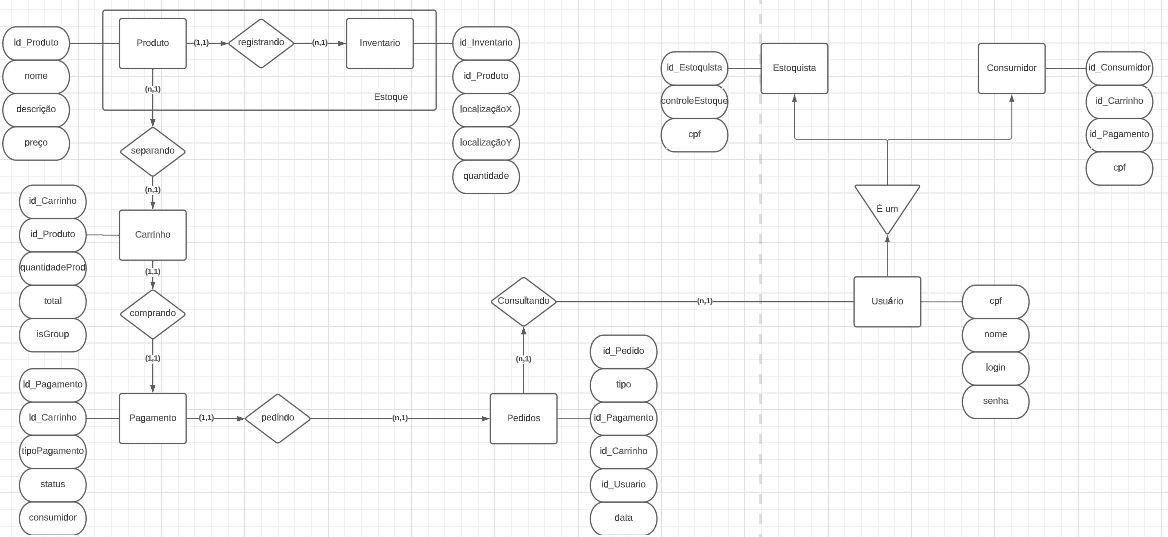
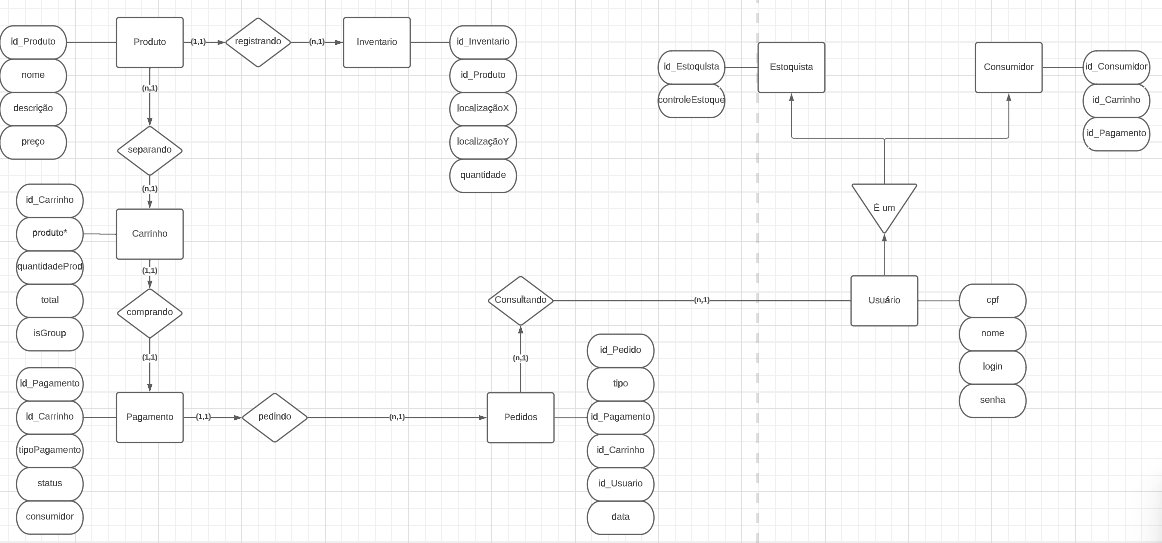
Correcoes no diagram de entidade e diagrama de modelagem

diff --git a/docs/documento_arquitetura.md b/docs/documento_arquitetura.md
@@ -408,31 +408,28 @@ Um Diagrama de Entidade-Relacionamento (DER) é uma representação gráfica que
 
 # v1.0
 
-![Diagrama de entidade relacional v1.0](assent/documento_arquitetura/../../assets/documento_arquitetura/diagrama_entidade_relacinalV2.png)
+![Diagrama de entidade relacional v1.0](assets/documento_arquitetura/diagrama_entidade_relacionalV2.png)
 
 O diagrama indica a estrutura do banco que será utilizado no projeto, sendo dividido em 3 tabelas (Produto,Inventario,Transações) onde cada uma contem as colunas nescessarias para o controle do estoque e compra de cada produto.
 
 ## Entidades
 
-Produto: representa os produtos oferecidos e contém os atributos id (identificador único do produto), nome, categoria, valor, descrição.
+Produto: representa os produtos oferecidos e contém os atributos id_Produto (identificador único do produto), nome, preço, descrição.
 
-Inventario: representa as informações de cada produto e contém os atributos de id (identificador único do produto dentro do inventario), x-
-LocalizaçãoX (posição no eixo x do produto), LocalizaçãoY (posição no eixo y do produto),quantidade.
+Inventario: representa as informações de cada produto e contém os atributos de id_Inventario (identificador único do produto dentro do inventario),id_Produto (identificador único do produto), LocalizaçãoX (posição no eixo x do produto), LocalizaçãoY (posição no eixo y do produto),quantidade.
 
-Carrinho: representa os produtos que o usuário separa para compra e contém os atributos produto, quantdade, total (valor total da compra).
+Carrinho: representa os produtos que o usuário separa para compra e contém os atributos id_Carrinho (identificado único do carrinho), produto* (produtos do carrinho), quantidadeProd (quantidade de produtos no carriho), total (total do valor da compra), isGroup (identificaodr de compras em grupo). 
 
-CarrinhoGrupo: representa uma lista de compras feitas por varias pessoas e contém o atibuto usuarioGrupo (são as informações de compra dos usuário).
+Pagamento: representa as transações feitas pelo usuário contém os atributos id_Pagamento (identificador único do pagamento),id_Carrinho,
+tipoPagamento (forma como os produtos foram pagos), status, consumidor.
 
-Pagamento: representa as transações feitas pelo usuário contém os atributos id (identificador único de produto do inventario), total (valor total da compra), tipoPagamento (forma como foi pago a compra),
-status (status da compra), consumidor.
-
-Pedidos: representa a lista de produtos feita pelo usuário e contém os atributos de tipo (tipo do prosuto), pagamento, quantidade, usuário, data.
+Pedidos: representa a lista de produtos feita pelo usuário e contém os atributos de id_Pedido(identificador único do pedido), tipo, id_Pagamento, id_Carrinho, id_Usuário, data.
 
 Usuário: representa as informações do usuário e contém os atributos cpf, nome, login, senha.
 
-Estoquista: representa as informações do estoquista e contém o atributo de controleEstoque.
+Estoquista: representa as informações do estoquista e contém o atributo de id_Estoquista,controleEstoque.
 
-Consumidor: representa as informações do consumidor e contém os atributos de carrinho, pagamento.
+Consumidor: representa as informações do consumidor e contém os atributos de id_Consumidor,id_Carrinho,id_Pagamento.
 
 
 # Modelo Relacional
@@ -441,67 +438,76 @@ O modelo relacional é uma representação do banco de dados utilizando tabelas,
 
 # v1.0
 
-![Modelo Relacional v1.0](assents/../assets/documento_arquitetura/modelagem_relacionalV2.png)
+![Modelo Relacional v1.0](assets/documento_arquitetura/modelagem_relacionalV2.png)
 
 # Tabelas
 
 ## Produto
 
-- idProduto (chave primária)
+- id_Produto (chave primária)
 - nome
 - preço
 - descrição
 
 # Inventário
 
-- idInventario (chave primária)
-- idProduto (chave estrangeira)
+- id_Inventario (chave primária)
+- id_Produto (chave estrangeira)
 - xLocalização
 - yLocalização
 - quantidade
 
 # Carrinho
 
-- idProduto (chave estrangeira)
-- quantidade
+- id_Carrinho (chave primária)
+- id_Inventario (chave estrangeira)
+- id_Itens (chave estrangeira)
 - total
+- grupo
 
-# CarrinhoGrupo
+# Itens_da_compra
 
-- usuárioGrupo
+- id_Itens (chave primária)
+- id_Carrinho (chave estrangeira)
+- id_Produto (chave estrangeira)
 
 # Pagamento
 
-- idPagamento (chave primária)
-- total
-- tipoPagamento
-- consumidor
+- id_Pagamento (chave primária)
+- id_Carrinho (chave estrangeira)
 - status
+- consumidor
+- tipoPagamento
 
 # Pedidos
 
-- tipo
-- pagamento
-- quantidade
+- id_Pedido (chave primaria)
+- id_Pagamento (chave estrangeira)
+- id_Carrinho (chave estrangeira)
+- id_Usuário (chave estrangeira)
 - usuário
 - data
+- tipo
 
 # Usuário
 
-- nome (chave primaria)
-- cpf
+- cpf (chave primaria)
 - login
 - senha
+- nome
 
 # Consumidor
 
-- carrinho (chave estrangeira)
-- pagamento (chave estrangeira)
-- idConsumidor (chave primaria)
+- id_COnsumidor (chave primária)
+- cpf (chave estrangeira)
+- id_Carrinho (chave estrangeira)
+- id_Pagamento (chave estrangeira)
 
 # Estoquista
 
-- controleEstoque (chave primaria)
+- id_Estoquista (chave primaria)
+- cpf (chave estrangeira)
+- controleEstoque
 
 Cada tabela possui uma chave primária para identificar cada registro de forma única.
 
